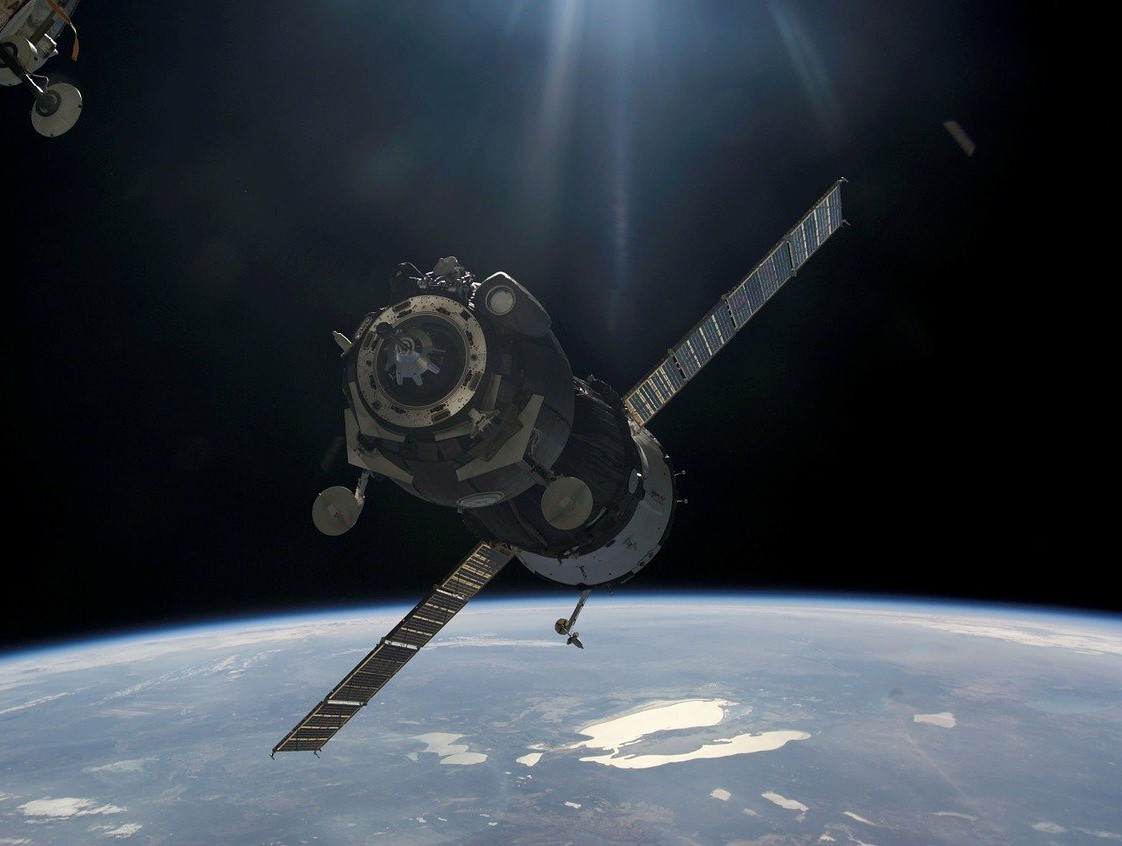
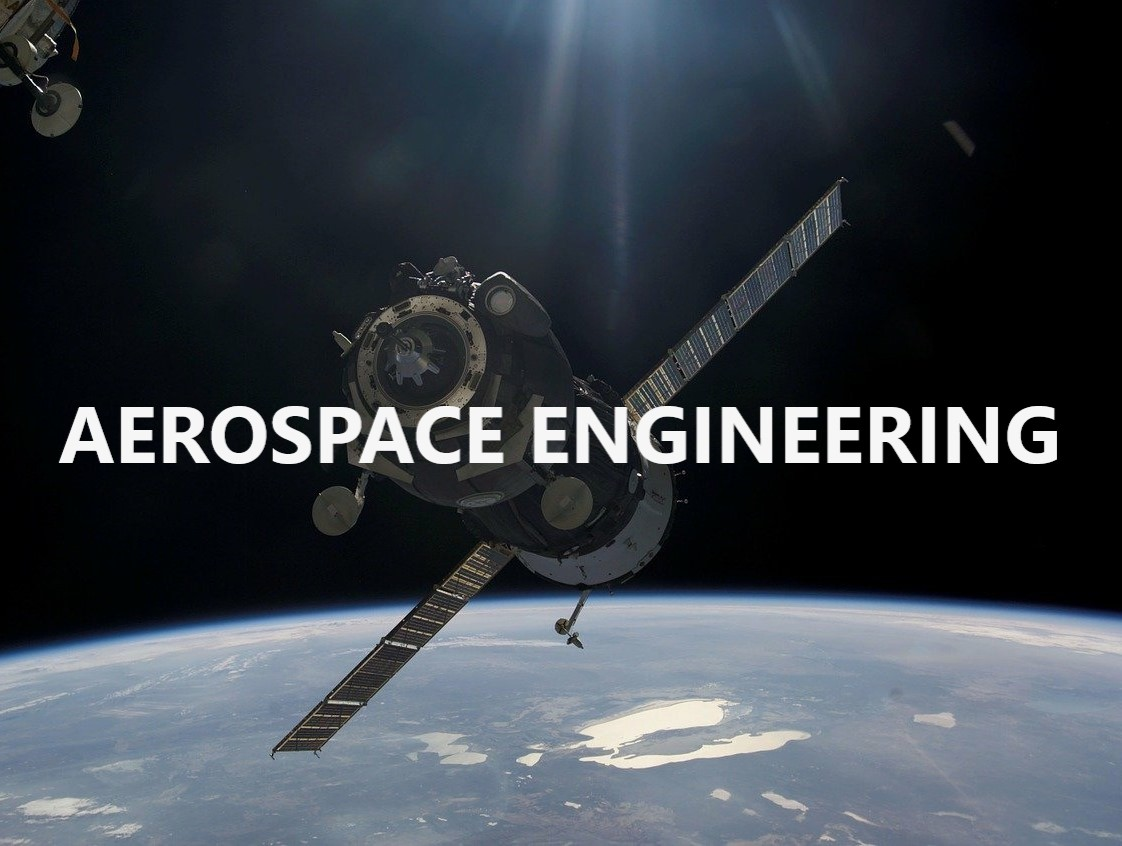
10052021 updates, new AeroEng page

Changed region(s): [[0.0312, 0.461, 0.967, 0.5532]]

diff --git a/aeroEng.html b/aeroEng.html
@@ -3,7 +3,7 @@
 
 <head>
 
-<title>Infineon Home</title>
+<title>AeroEng Course</title>
 <style>
     body {background-color: rgb(94, 89, 89);}
 
@@ -34,14 +34,6 @@
     background-color: #ec3508;
     color: rgb(8, 7, 7);
     }   
-    
-    .centerAE {
-    display: block;
-    border-radius: 25px;
-    margin-left: auto;
-    margin-right: auto;
-    width: 50%;
-    }
 
 
 
@@ -50,8 +42,6 @@
 </head>
 
 <body>
-
-
 
 <h1 class="logo">INFINEON</h1>
 
@@ -63,17 +53,6 @@
     <a href="#About">About</a>
 </div> 
 
-<p>Knowledge is on the Web <br> together we can find it</p>
-
-<!--
-<input type="image" src="assets/international-space-station-988_1280.jpg" 
-height="400px" class="center" />
--->
-
-<a href="aeroEng.html">
-    <img src="assets/international-space-station-988_1280.jpg" alt="Aerospace Engineering" 
-    style="width:500px;height:400px;" class='centerAE'>
-</a> 
 
 
 </body>
